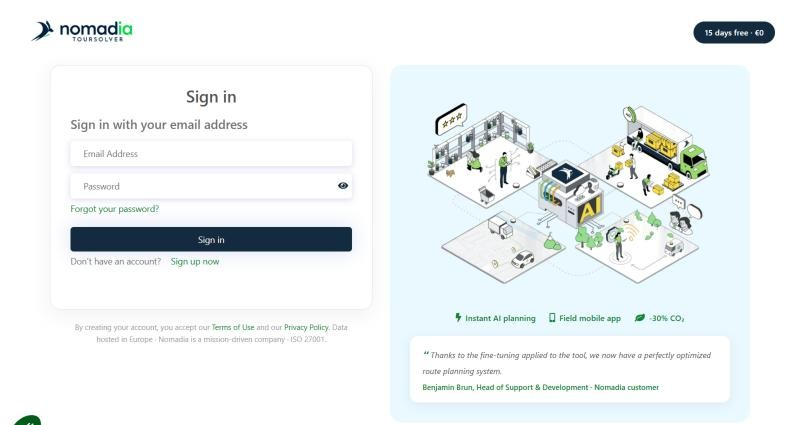
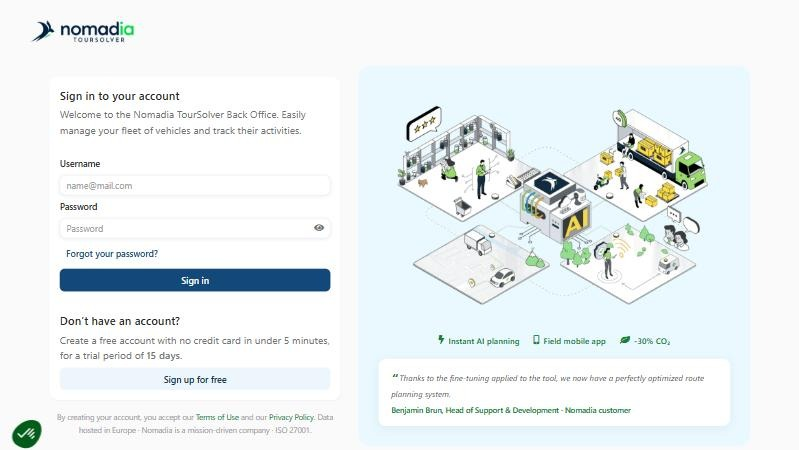
Update the login topics with the TourSolver sign-in and password reset screens

diff --git a/faq/i-cannot-log-in-to-toursolver-web.md b/faq/i-cannot-log-in-to-toursolver-web.md
@@ -10,14 +10,14 @@ Solve the most common sign-in problems yourself, and find out what to send to su
 ## Feature overview
 
 * **Sign-in page**: The only address to use to log in to TourSolver.
-* **Forgot your password?**: Resets your password with a verification code sent by email.
+* **Forgot your password?**: Resets your password with a validation code sent by email.
 * **Browser cache and cookies**: Old browser data can cause a blank page, endless loading, or a sign-in loop.
 * **Platform incident**: A maintenance or incident page that affects every user, not only your account.
 * **Browser console**: Shows the technical errors that support needs to analyze the problem.
 
 ## Check the sign-in address
 
-1. Open [https://app.geoconcept.com/ToursolverCloud/ts/trsolver/home](https://app.geoconcept.com/ToursolverCloud/ts/trsolver/home).
+1. Open [https://app-test.geoconcept.com/zToursolverNext/ts/trsolver/home](https://app-test.geoconcept.com/zToursolverNext/ts/trsolver/home).
 2. Save this address in your browser favorites.
 3. Do not use old bookmarks or links copied from old emails, because they can point to an outdated page.
 
@@ -25,14 +25,16 @@ Solve the most common sign-in problems yourself, and find out what to send to su
 
 ## Reset a forgotten password
 
-1. On the sign-in page, click **Forgot your password?**.
-2. Enter the email address of your TourSolver account, and then click **Send verification code**.
-3. Copy the verification code that you receive by email, paste it in the page, and then click **Verify code**.
-4. Click **Continue**.
-5. Enter your new password twice, and then confirm.
-6. Log in with your new password.
+1. On the **Sign in to your account** page, click **Forgot your password?**.
+2. On the **Reset your password** page, enter the **E-mail address** of your TourSolver account, and then click **Send the validation code**.
 
-If you do not receive the verification code:
+<figure><img src="../.gitbook/assets/LogIn_ForgotPassword_001.jpg" alt=""><figcaption></figcaption></figure>
+
+3. Type the validation code that you receive by email, and then click **Next**.
+4. Enter your new password twice, and then confirm.
+5. Log in with your new password.
+
+If you do not receive the validation code:
 
 * Wait a few minutes, and then check your **Spam** or **Junk** folder.
 * Check that you entered the email address of your TourSolver account.

diff --git a/getting-started/log-in-to-toursolver.md b/getting-started/log-in-to-toursolver.md
@@ -9,15 +9,16 @@ Log in to TourSolver, reset a forgotten password, and log out at the end of your
 
 ## Feature overview
 
-* **Sign-in page**: Logs you in to TourSolver with your email address and your password.
-* **Forgot your password?**: Resets your password with a verification code sent by email.
+* **Sign in to your account**: Logs you in to TourSolver with your username, which is your email address, and your password.
+* **Forgot your password?**: Resets your password with a validation code sent by email.
 * **Logout**: Ends your session from the user menu.
 
 ## Log in
 
-1. Open [https://app.geoconcept.com/ToursolverCloud/ts/trsolver/home](https://app.geoconcept.com/ToursolverCloud/ts/trsolver/home).
-2. Enter the **Email Address** and the **Password** of your TourSolver account.
-3. Click **Sign in**.
+1. Open [https://app-test.geoconcept.com/zToursolverNext/ts/trsolver/home](https://app-test.geoconcept.com/zToursolverNext/ts/trsolver/home).
+2. On the **Sign in to your account** page, enter your **Username**, which is the email address of your TourSolver account.
+3. Enter your **Password**.
+4. Click **Sign in**.
 
 <figure><img src="../.gitbook/assets/LogIn_SignInPage_001.jpg" alt=""><figcaption></figcaption></figure>
 
@@ -28,14 +29,15 @@ The TourSolver **Home** page opens.
 ## Reset a forgotten password
 
 1. On the sign-in page, click **Forgot your password?**.
-2. On the **User Details** page, enter the email address of your TourSolver account.
-3. Click **Send verification code**.
+2. On the **Reset your password** page, enter the **E-mail address** of your TourSolver account.
+3. Click **Send the validation code**.
 
 <figure><img src="../.gitbook/assets/LogIn_ForgotPassword_001.jpg" alt=""><figcaption></figcaption></figure>
 
-4. Type the verification code that you received in your email, and then click **Verify code**.
-5. Click **Continue**.
-6. Enter your new password twice, and then confirm.
+4. Type the validation code that you received by email, and then click **Next**.
+5. Enter your new password twice, and then confirm.
+
+Click **Back to sign in** to return to the sign-in page without changing your password.
 
 {% hint style="warning" %}
 **Password requirements**: Your password must contain at least one uppercase letter, one lowercase letter, one number, and one special character.
